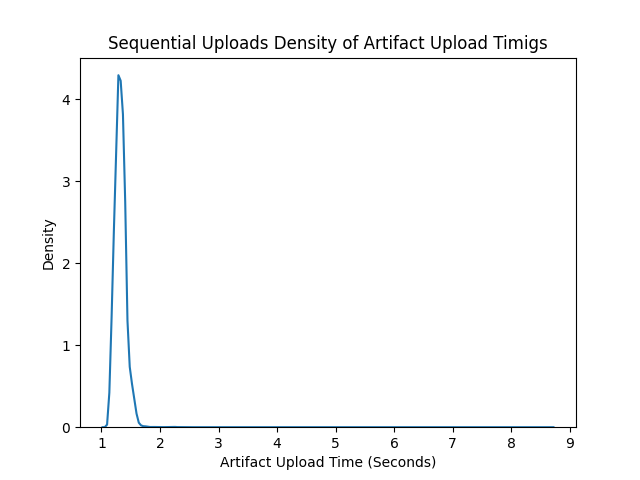
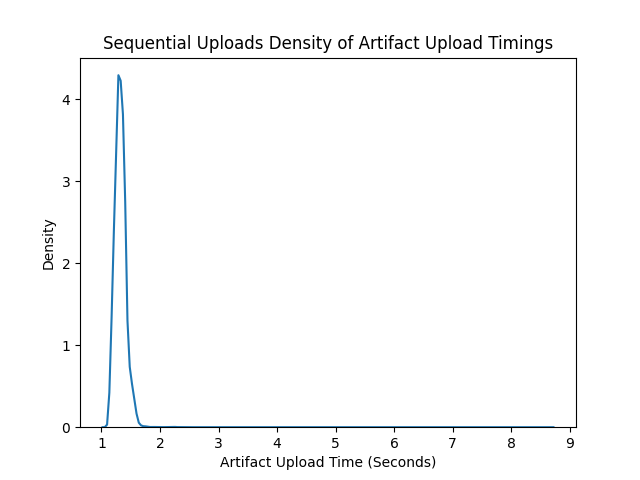
more work on documentation

Changed region(s): [[0.1562, 0.0625, 0.875, 0.125]]

diff --git a/Benchmark/create_sequential_plots.py b/Benchmark/create_sequential_plots.py
@@ -58,7 +58,7 @@ print("Creating sequential density plot ...")
 # shows distribution of Artifact upload times
 sequential_time_density = seaborn.kdeplot(data=sequential_data, x="total_time")
 sequential_time_density.set(
-    xlabel="Artifact Upload Time (Seconds)", title="Sequential Uploads Density of Artifact Upload Timigs"
+    xlabel="Artifact Upload Time (Seconds)", title="Sequential Uploads Density of Artifact Upload Timings"
 )
 sequential_time_density.figure.savefig(f"{plots_path}/sequential_time_density.png")
 sequential_time_density.figure.clf()

diff --git a/documentation/benchmark.md b/documentation/benchmark.md
@@ -1,13 +1,14 @@
-# Characterization Study of the Scalability of the https://cloudstash.io Platform
+# Characterization Study of the Scalability of the Cloudstash Platform
 
-This document outlines the work carried out in order to create a characterization study of the cloudstash.io platform.
-The purpose of the characterization study is to measure the: __scalability of the cloudstash.io platform as the number of stored artifacts grows.__
+This document outlines the work carried out in order to create a characterization study of the Cloudstash platform.
+The purpose of the characterization study is to measure the: __scalability of the Cloudstash platform as the number of stored artifacts grows.__
 
 ## System Under Test: Cloudstash
 
 Cloudstash (available at https://cloudstash.io) is an artifact management system built entirely on AWS serverless technology.
-The platform lets registered users create repositories, that can store artifacts: a zip file containing the code and generic configuration metadata of a serverless function.
-Arifacts can then later be retrieved from the service.
+The platform lets registered users create repositories, that can store artifacts.
+Artifacts are zip files containing the code and generic configuration metadata of a serverless function.
+Arifacts can later be retrieved from the service.
 
 The platform comprises a frontend webpage served using AWS Lambda (FaaS) and an AWS API Gateway (HTTP router), persistent data is stored in AWS s3 (blob storage) and AWS DynamoDB (NoSQL database).
 
@@ -18,80 +19,44 @@ The platform is developed and deployed using the serverless framework (https://w
 ## Defining Scalability
 
 Scalability is a hard to define quality, but typically scalability is defined as the ability for a system to **scale** to meet different levels of demand.
-Thus scalability in itself is a rather binary property - and more interesting is the **quality** of the scalability, i.e. "How well does the system scale?".
+Thus scalability in itself is a rather binary property - and much more interesting is the **quality** of the scalability, i.e. "How well does the system scale?".
 
-Therefore we need to identify some metrics that can be used to quantify the quality of the scalability. Typically scalability is measured in terms of horizontal (adding more instances of a resources) and vertical scalability (adding more resources to a given instance).
+Therefore we need to identify some metrics that can be used to quantify the quality of the scalability. Typically scalability is measured in terms of horizontal scalability (adding more instances of a resources) and vertical scalability (adding more resources to a given instance).
 Since we are dealing with serverless computing, the scalability of the system is for the most part abstracted away from the users as part of the serverless service.
-This makes it difficult to investigate the scalability of serverless-based technologies, but we can interact with the system, and we can scale this interaction, and if the system scales well, then the quality of these interactions should not change.
+This makes it difficult to investigate the scalability of serverless-based platforms.
+So we must adopt a block-box approach in which we interact with the system, and then scale this interaction, and if the system scales well, then the quality of these interactions should not change.
 
-Since we are interested in measuring the scalability of the system as the number of stored artifacts increases, we choose two qualities of the system to quantify: the performance, and the availability of the system.
-The performance will be quantified through the metric of response time for requests made to the platform, and the availability will quantified through the metrics of the HTTP response codes received when making requests to the platform, e.g. that all of our requests are handled correctly.
+Since we are interested in measuring the scalability of the system as the number of stored artifacts increases, we choose two qualities of the system to quantify to achieve this goal, they are: the performance, and the availability of the system.
+The performance will be quantified through the metric of response time for requests made to the platform, and the availability will quantified through the metric of the HTTP response codes received when making requests to the platform, e.g. that all of our requests are handled correctly.
 
 The assumption is that if the system scales well, then the response time should not change as we store more and more artifacts, as well as that all requests are handled correctly, no matter how many artifacts are stored in the platform.
 
-
-<!-- Thus by applying a series of tests -->
-
-<!-- e.g. the response time should be the same, no matter how many requests per second we make, all of our requests should be -->
-
-<!-- Therefore in order to obtain some insights into the quality of the scalability -->
-
-<!-- In terms of cloud computing, and especially serverless computing we are mostly interested in the horizontal scalability of systems, as the cloud providers make promises of horizontal scalability for the services that -->
-<!-- in terms horizontal and vertical scalability. -->
-<!-- Since we are interested in the scalability of platform that relies on serverless technology, -->
-
-<!-- elasticity -->
-<!-- precision -->
-
-<!-- repeatability and reproducibility -->
-<!-- isolation -->
-
-<!-- serverless platforms evolve rapidly -->
-
-<!-- ### Performance -->
-
-<!-- ### Availability -->
-
-
-
 ## Benchmarking Serverless Cloud Infrastructure
 
-Accurately benchmarking serverless technologies is hard.
+Accurately benchmarking serverless platforms is hard.
 The nature of the serverless paradigm means that the granular control and insight typically needed to make good benchmarks are purposefully abstracted, and hidden away from the user, in order to provide the 'serverless' experience.
 
-Thus in order to actually acquire any insights into the system we have to adopt a black box approach to benchmarking the system.
+Serverless platforms are typically provided 'as-a-service', which means that users pay for the granular usage of an offered service, and thus the qualities of this service is completely at the mercy of the service provider.
+This means that qualities of these services can change rapidly and without any warning.
+For the most part this is part of the appeal of the serverless paradigm, as users will generally receive a better service without taking any action themselves.
+But it means that benchmarking these systems is further complicated, as what version of a system is under test is for the most part not known, as well as that it is difficult to explain changes in benchmarks over time, other than that the services as whole has changed it's qualities.
 
-Serverless technologies are typically provided 'as-a-service', which means that users pay for the granular usage an offered service, and thus the quality of this service is completely at the mercy of the service provider.
-This means that quality of these services can change rapidly and without any warning, granted this usually a feature as providers are generally interested in offering a better service, but it means that benchmarking these systems is further complicated, as what version of a system is under test is for the most part not known.
+This complicates benchmarking serverless platforms as a benchmark will be a snapshot of the qualities of the system at a given point in time.
+The next day, the provider might quietly update the service, changing the quality of the service, and thus rendering the benchmark outdated.
 
-This complicates benchmarking serverless technologies as a benchmark will be a picture of the system at a given point in time, but the next day, the provider might quietly update the service, changing the quality of the service, and thus rendering the benchmark useless apart from for historical purposes.
-
-To alleviate these difficulties, great care should be taken when designing benchmarks for serverless technologies: benchmarks should be repeatable, reproducible, isolated and automated.
+To alleviate these difficulties, great care should be taken when designing benchmarks for serverless platforms: benchmarks should be repeatable, reproducible, isolated and automated.
 
 - Benchmarks should be repeatable such that they can be carried out over time, as the underlying services change, and such that these changes can be observed.
 - Benchmarks should be reproducible, in the sense that they should be able to be carried out be researchers, independently of each other, and, within margin of error, these researchers should achieve the same results.
-- Benchmarks should be carried out in isolation, such that the benchmark is not influenced by any optimizations of related systems, or by historical data from previous use of the technology, e.g. we do not want to run the benchmark on an existing production deployment, but instead choose to deploy a new, distinct instance of the platform, with the sole purpose of running the benchmark.
+- Benchmarks should be carried out in isolation, such that the benchmark is not influenced by any optimizations of related systems, or by historical data from previous use of the platform, e.g. we do not want to run the benchmark on an existing production deployment, but instead choose to deploy a new, distinct instance of the platform, with the sole purpose of running the benchmark.
 - Benchmarks should be automated, such that we can ensure that as benchmarks are run repeatedly, and by different researchers, that they are run the exact same way every time, and thus that results from different benchmarks can be compared.
 
-<!-- ### Black Box Approach -->
-
-<!-- ### Automation -->
-
-<!-- ### Cloud Providers -->
-
-<!-- ### AWS Services -->
-
-<!-- #### Lambda -->
-<!-- #### API Gateway -->
-<!-- #### DynamoDB -->
-<!-- #### s3 -->
 
 ## Designing Benchmarks for Scalability
 
-Earlier in the text we put forward the assumption that due to the serverless nature of the system, the performance and the availability should be the same, irregardless of how many functions are actually stored in the Cloudstash instance being tested.
-Thus we design two benchmarks to attempt to verify this assumption:
+Earlier in this text we put forward the assumption that due to the serverless nature of the system, the system should scale well, and therefore the performance and the availability should remain same, irregardless of how many functions are actually stored in the Cloudstash instance being tested.
 
-<!-- The assumption is that if the system scales well, then the response time should not change as we store more and more artifacts, as well as that all requests are handled correctly, no matter how many artifacts are stored in the platform. -->
+Thus we design two benchmarks to attempt to verify this assumption:
 
 ### Benchmark 1: Sequential Artifact Uploads
 
@@ -106,25 +71,34 @@ We record the HTTP status code to measure the availability of the system as the 
 We expect that if the systems scales well, that all of our requests are handled correctly, and that we receive a 200 HTTP status code for all of the requests that we make.
 
 The maximum number of artifacts to be uploaded is 100000.
-This benchmarks thus verifies that 100000 artifacts can be uploaded to the platform, and that the scalability of the system is good if it behaves consistently across all of the artifact uploads.
+This benchmarks thus verifies that 100000 artifacts can be uploaded to the platform, and that the scalability of the system is good if it behaves consistently across the majority of the artifact uploads.
 
 ### Benchmark 2: Load Test
 
-TODO describe benchmark 2
+In the second benchmark, the `load test`, we apply a load scenario to a Cloudstash instance. The load scenario consists of a number of different API calls, intended to mimick the behaviour of users using the system, e.g. uploading artifacts, downloading artifacts, getting a list of available artifacts, etc.
+We apply this same load scenario to different Cloudstash instances that each have a different number of artifacts uploaded to the platform before the load scenario is started.
+We refer to this number of artifacts uploaded before starting the load test as the benchmark pre-condition.
+If the system scales well, then the results of the load scenarios should be comparable, irregardless of how many artifacts were uploaded in the pre-condition step, as the performance of the system should scale with the number of stored artifacts.
+The load scenarios will be orchestrated using Artillery (https://artillery.io), to ensure that the same load scenario is applied to each benchmark run.
 
+TODO elaborate more?
 
 # Benchmarking Setup
 
-
+The benchmarking setup consist of an EC2 VM, the `orchestration` server, which runs containerized benchmark clients, as well as a number of isolated, benchmark specific, Cloudstash instances.
+The benchmarking client is written in Python that runs in a Docker container.
+The containers are started from a bash script that will start the containers with the correct parameters.
 
 ## Infrastructure
 
 Benchmarks are orchestrated from the `orchestration` server.
 The orchestration server serves as the centralized control point for the benchmarks and handles the actual running of benchmarks.
-The orchestration server is an AWS ec2 instance, with the size 't3.medium', running Ubuntu 18.04.
+The orchestration server is an AWS ec2 instance, with the size 't3.medium' (2 CPU, 4gb RAM), running Ubuntu 18.04.
+The orchestration server can be deployed with `Terraform` using the code in `cloudstatsh-characterization/EC2`.
+The benchmarking Docker container is built from the `Dockerfile` in the root of this repository, and is built on all pushes to `main` branch by a Github Actions pipeline, that pushes the image to the Docker hub.
 
-Each benchmark that is started runs in a docker container on the orchestration server.
-The container contains the benchmarking logic, and controls the lifecycle of the benchmark.
+Each benchmark that is started runs in a Docker container on the orchestration server.
+The container contains the benchmarking logic, as well as the tools to run the benchmarks, like `Artillery`, and controls the lifecycle of the benchmark.
 
 Each benchmark that is run deploys it's own instance of Cloudstash.
 Cloudstash is deployed using the Serverless framework, which is a infrastructure-as-code framework for FaaS-based projects.
@@ -139,35 +113,34 @@ Running a benchmark is done in a completely automated way.
 The user will start a benchmark by running one of the two orchestration scripts, and provide the script with the argument for the number of artifacts to upload in the sequential upload benchmark, or how many artifacts should be present in the Cloudstash instance, before running the benchmark for the load test.
 
 The orchestration script will then start a container with the appropriate parameters and execute the entire benchmark autonomously.
-The results of the benchmark are delivered in a `.csv` file to bind-mounted directory on the orchestration server.
-As well as a log of events during the benchmark, mainly for debugging purposes.
+The results of the benchmark are delivered in a `.csv` file to a bind-mounted directory on the orchestration server.
+As well as a log of events during the benchmark.
 
 ## Benchmark Lifecycle
 
-The flow of the benchmarks start with the user running the orchestration script.
-The script will start a docker container, and inside the container the Python orchestration script will handle running the actual benchmark.
+The benchmarks start with the user running the orchestration script.
+The script will start a Docker container, and inside the container the Python orchestration script will handle running the actual benchmark.
 First the benchmark specific Cloudstash instance will be deployed, when the instance has been successfully deployed, the orchestration script will apply any needed pre-conditions, such as creating users on the instance, obtaining authentication tokens and creating artifact repositories.
 Once the needed preconditions are established, the orchestration script will run the actual benchmark, either in the shape of Python code to upload artifacts, or applying an Artillery script to conduct the load tests.
-Once the benchmark has completed, the benchmark results are parsed and outputted as a `.csv` file, for later analysis.
-Then the deployed Cloudstash instance is destroyed, removing all traces of the deployment.
-Finally the lifecycle of the benchmark is complete, and docker container stops.
+Once the benchmark has completed, the benchmark results are parsed and outputted as a `.csv` file for later analysis.
+Finally the deployed Cloudstash instance is destroyed, removing all traces of the deployment, concluding the lifecycle of the benchmark, which stops the Docker container.
 
 ## Outputs
 
 Each benchmark produces a `.csv` file with the results from the benchmark.
-The output files can be parsed with 'plots' python scripts to create different pre-defined graphs to visualize the data.
+The output files can be parsed with the `cloudstash-characterization/Benchmark/create_sequentual_plots.py` and `TODO <insert load test plot script> ... .py` python scripts to create different pre-defined graphs to visualize the data.
 
 #### Benchmark 1
 For the sequential artifact upload benchmark the available data points are:
-- `start_time` - the start time of the request in unix time
-- `end_time` - the end time of the request in unix time
-- `total_time` - end_time minus start_time, the total time of the request in seconds
-- `status_code` - the HTTP status code of the request
-- `artifact_num` - the number artifact uploaded, counting up from 0
-- `artifact_name` - the name of the artifact file
-- `artifact_size` - the size in bytes of the artifact file
-- `repository` - what repository the artifact was uploaded to
-- `user` - the Cloudstash user
+- `start_time` - the start time of the request in Unix time.
+- `end_time` - the end time of the request in Unix time.
+- `total_time` - end_time minus start_time, the total time of the request in seconds.
+- `status_code` - the HTTP status code of the request.
+- `artifact_num` - the number artifact uploaded, counting up from 0.
+- `artifact_name` - the name of the artifact file.
+- `artifact_size` - the size in bytes of the artifact file.
+- `repository` - what repository the artifact was uploaded to.
+- `user` - the Cloudstash user.
 
 #### Benchmark 2
 
@@ -193,9 +166,9 @@ We can see from the below plot, that the majority of the requests had a response
 
 ![sequential time density plot](../results/plots/sequential_time_density.png)
 
-Looking at the next plot, which plots the toatl artifact upload time on y-axis and the number artifact uploaded on the x-axis, we can see that there are a few outliers, that have a response time above 1.5 seconds.
+Looking at the next plot, which plots the total artifact upload time on the y-axis and the number artifact uploaded on the x-axis, we can see that there are a few outliers, that have a response time above 1.5 seconds.
 The cause of these outliers could be from the platform, whenever new AWS Lambda instances are created, these incur a "cold start", which will have a longer response time, due to provisioning of the Lambda instance serving the request.
-Further it seems reasonable, that when making 100000 requests from one datacenter to another, over the cause of two days, that there will be some outliers, due to outside factors, networking latency, etc.
+Further it seems reasonable, that when making 100000 requests from one datacenter to another, over the cause of two days, that there will be some outliers, due to outside factors such as networking latency, etc.
 
 ![sequential artifact upload timings over time](../results/plots/sequential_artifact_upload_timings_over_time.png)
 
@@ -204,7 +177,7 @@ Further it seems reasonable, that when making 100000 requests from one datacente
 In the below plot we show two columns that count the received HTTP status codes.
 We can see that the majority of the requests were successful, and had a response code of 200, indicating that the artifact was uploaded successfully.
 There was a total of 8 requests that encountered some server side error, indicated by the 502 response code.
-Ideally proving the availability of the platform, all requests should have been successful, but as discussed above in terms of response time outliers, the same applies here, and we consider the 8 requests within margin of error.
+Ideally proving the availability of the platform, all requests should have been successful, but as discussed above in terms of response time outliers, the same applies here, and we consider the 8 failed requests within margin of error.
 
 ![sequential http status code count](../results/plots/sequential_http_status_code.png)
 
